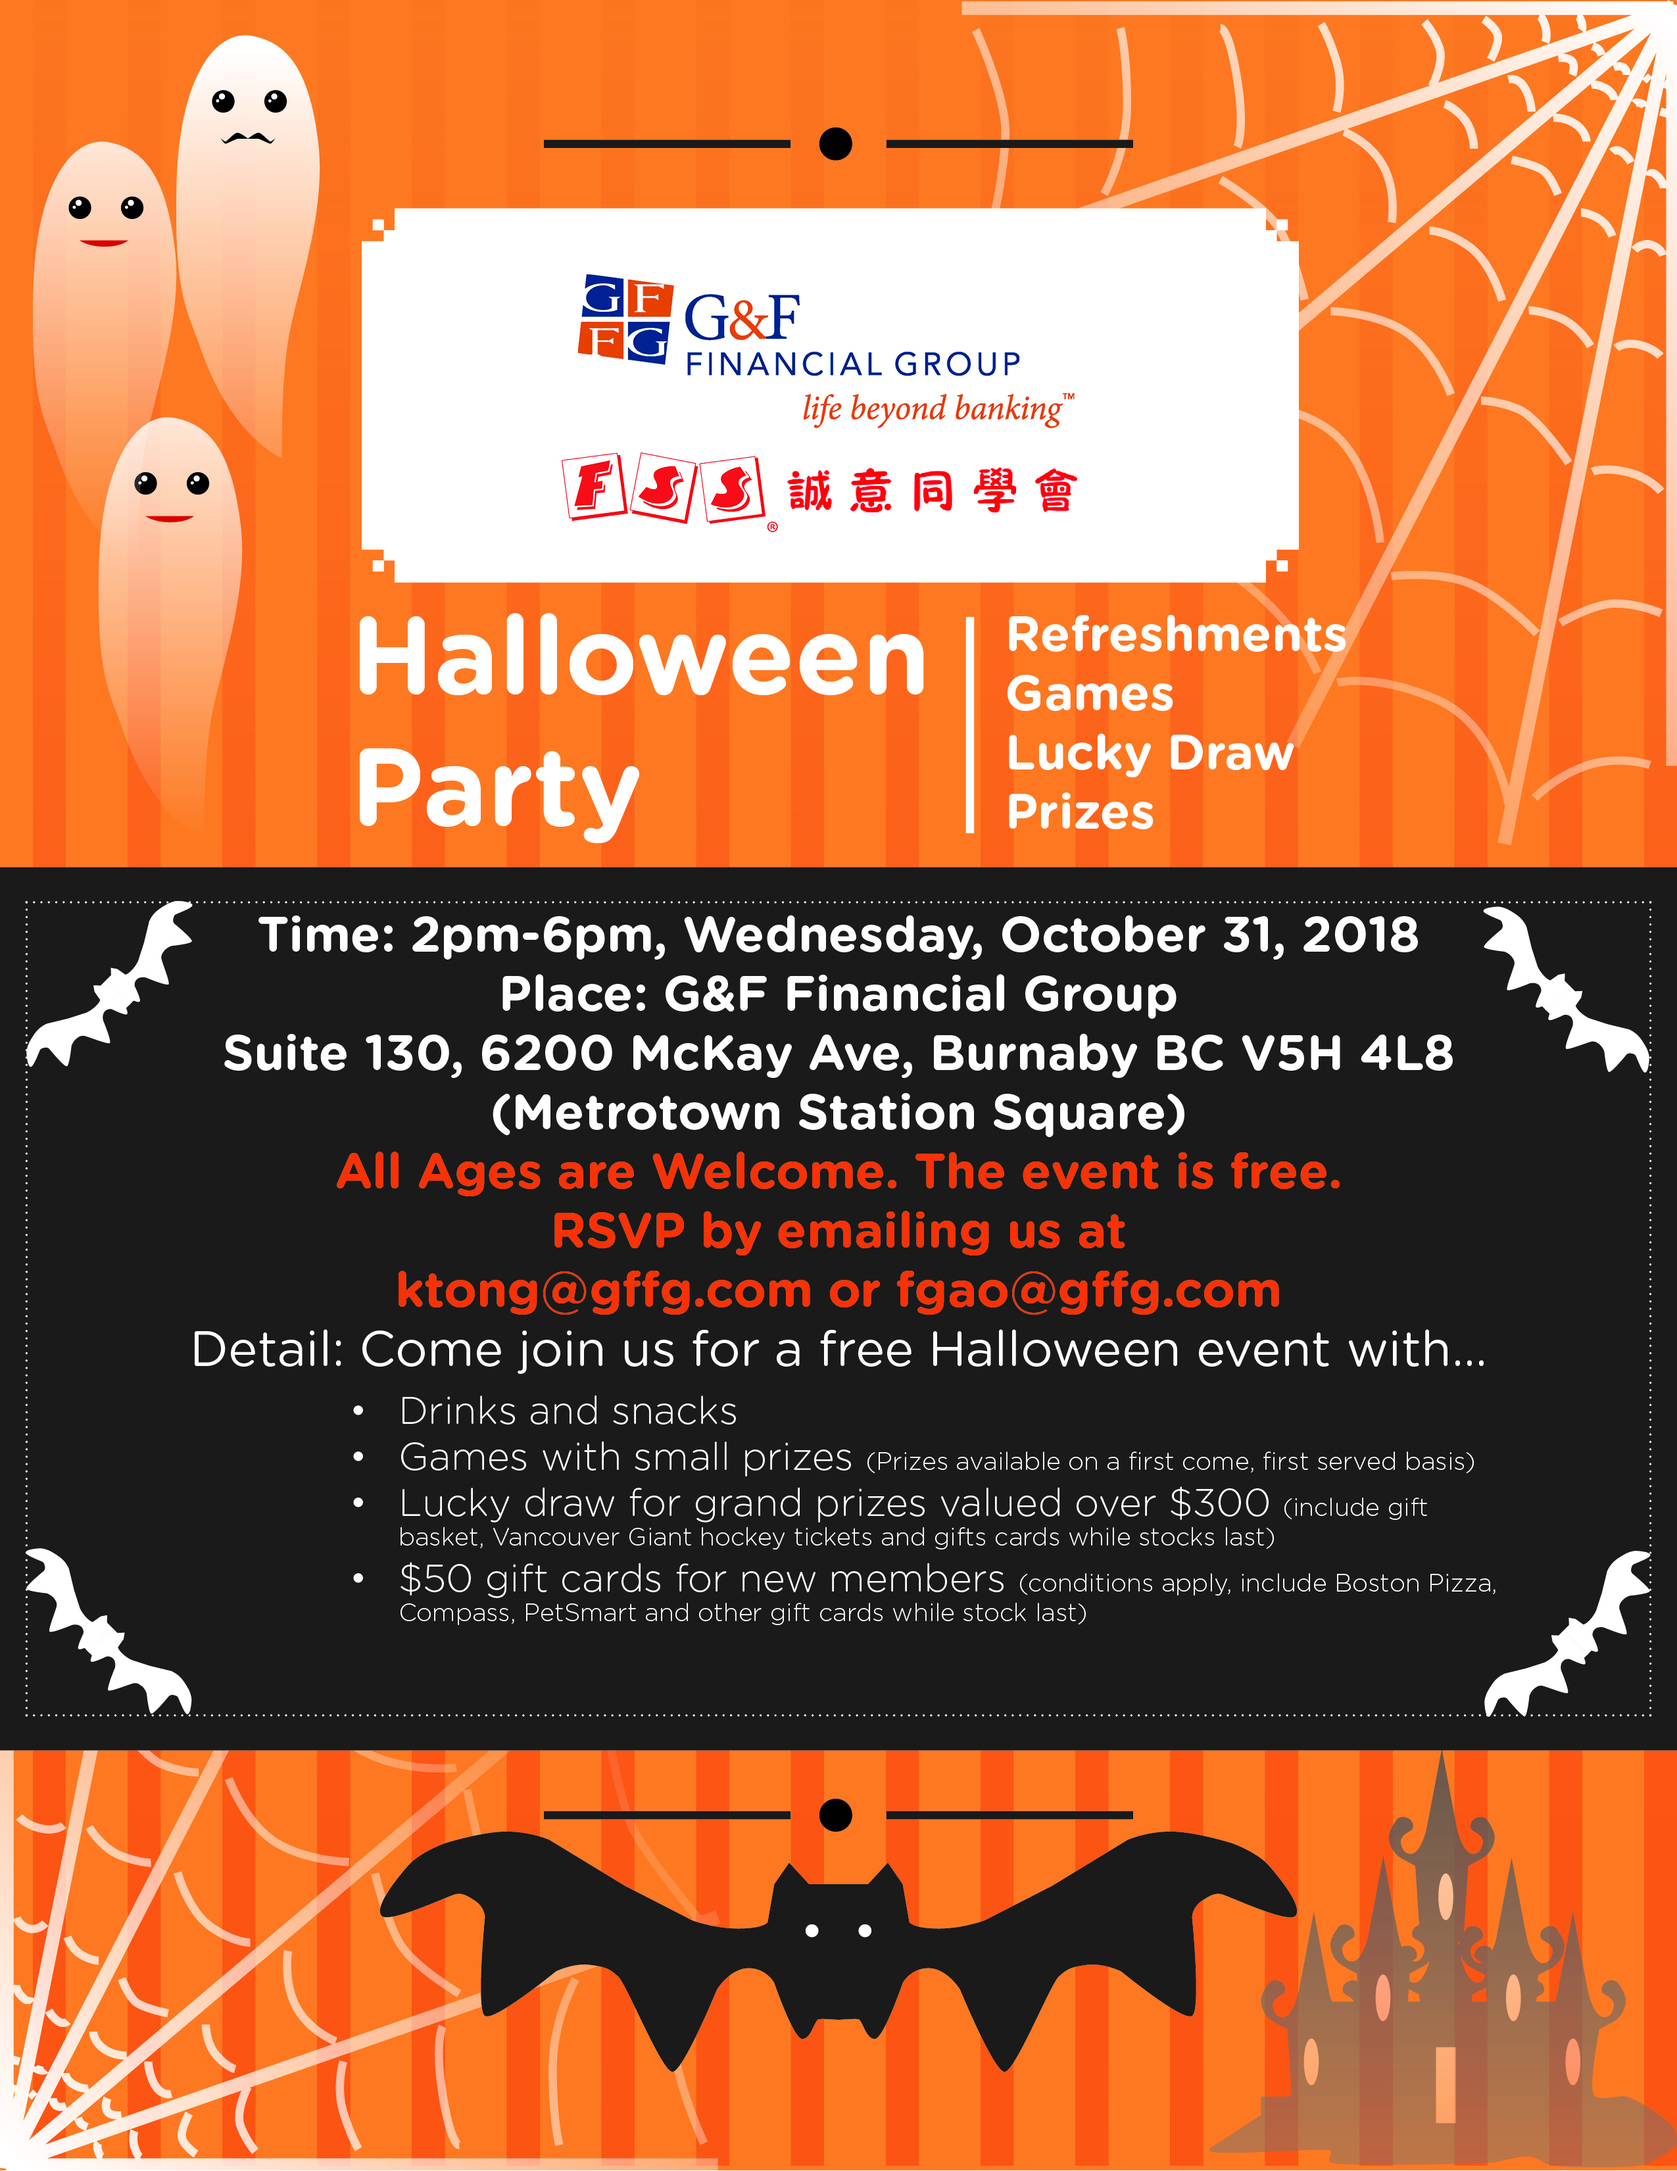
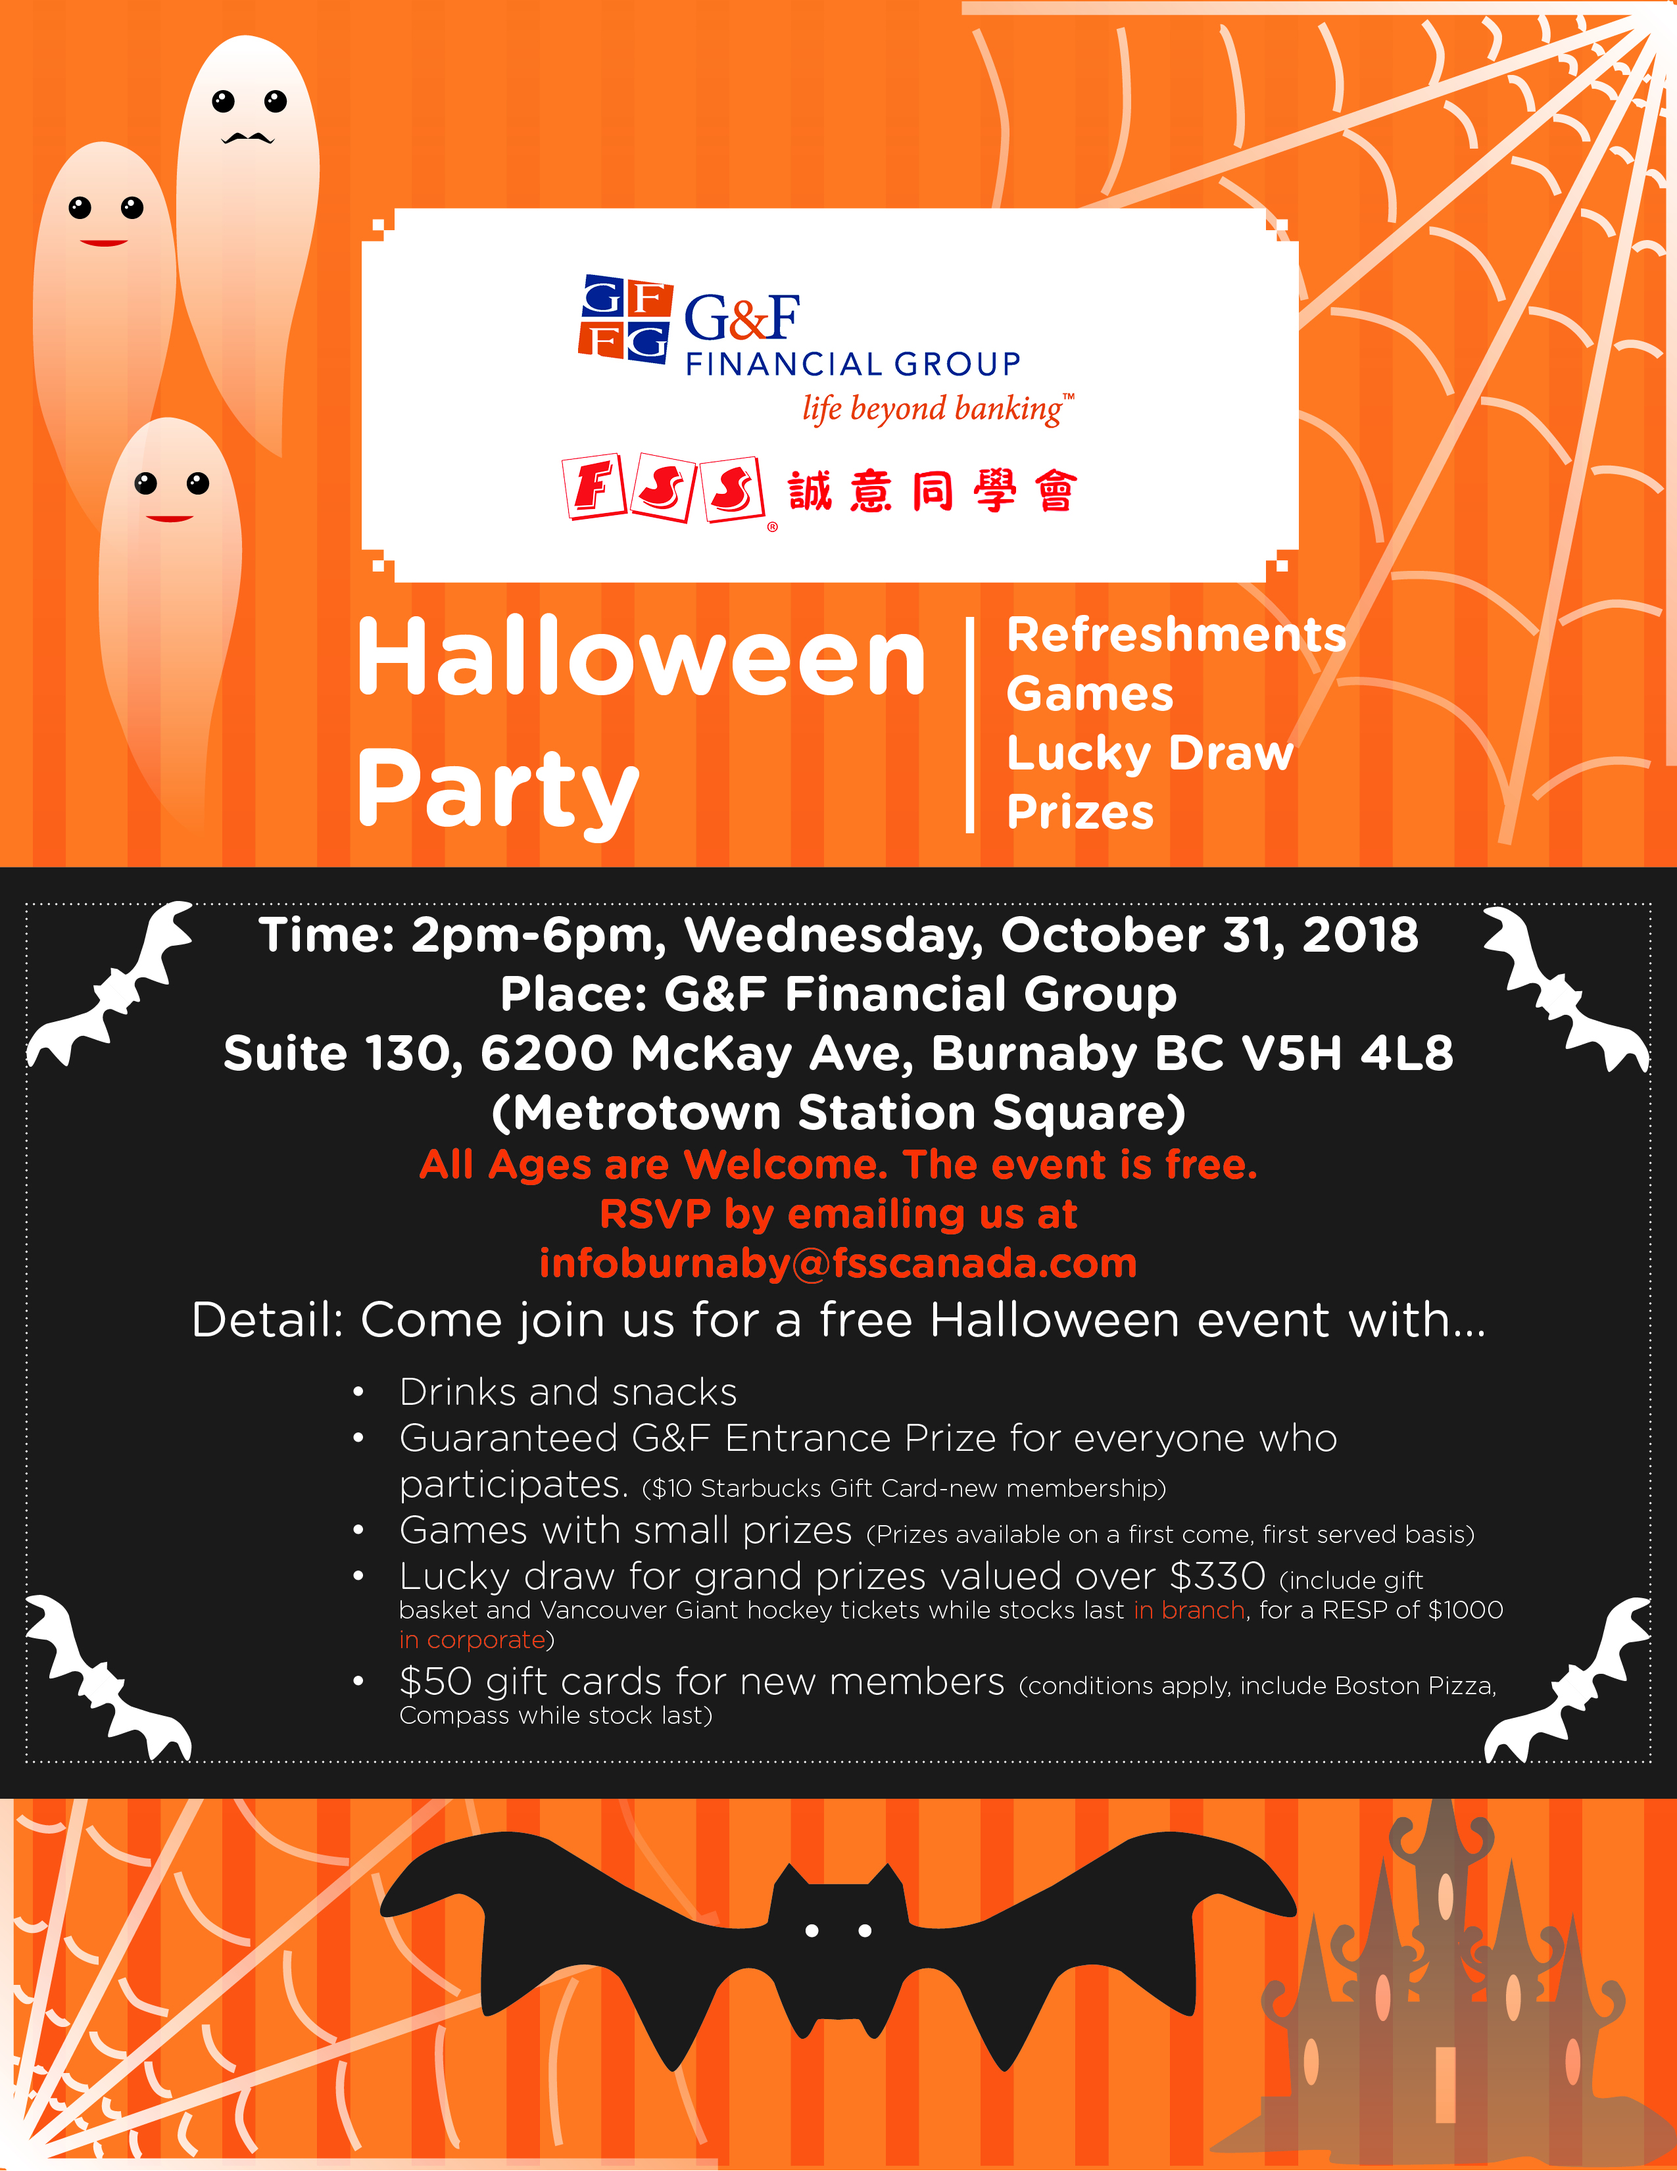
Uploaded new Content

Changed region(s): [[0.0, 0.5304, 1.0, 0.8425], [0.4957, 0.0624, 0.6816, 0.0936], [0.3408, 0.0624, 0.4647, 0.0936]]

diff --git a/index.html b/index.html
@@ -15,6 +15,7 @@
 		<script src="js/skel.min.js"></script>
 		<script src="js/skel-layers.min.js"></script>
 		<script src="js/init.js"></script>
+		<script src="js/CloseButton.js"></script>
 		<noscript>
 			<link rel="stylesheet" href="css/skel.css" />
 			<link rel="stylesheet" href="css/style.css" />
@@ -39,7 +40,7 @@
 						
 			
 			<li><a href="index.html" class="button special">Home</a></li>
-						<li><a href="benefit.html">Benefit</a></li>
+						<li><a href="benefit.html">Benefits</a></li>
 						<li><a href="scholarship.html" >Scholarship</a></li>
 						<li><a a href="event.html" >Event</a></li>
 						<li><a href="volunteer.html">Volunteer</a></li>
@@ -70,8 +71,13 @@
 					<a href="event.html"><img src="images/lighthouse1.pg" width="100%" height="100%" alt="" />
 							</a>
 					<p style="color:#fff";>International Student Lighthouse</p>
+					<ul>&nbsp;</ul>
+						
 					<ul class="actions">
-						<li><a href="benefit.html" class="button big special">Benefit</a></li>
+						<li><a href="benefit.html" class="button big alt">Benefits</a></li>
+						<li><a href="scholarship.html" class="button big alt">Scholarship</a></li>
+						<li><a href="event.html" class="button big alt">Event</a></li>
+						<li><a href="volunteer.html" class="button big alt">Volunteer</a></li>
 						<li><a href="https://vimeo.com/293648828" class="button big alt">VIDEO</a></li>
 					</ul>
 				</div>
@@ -91,38 +97,165 @@
 				<header class="major">
 					<h2>FSS Student Club</h2>
 					<p>FSS Student Club Is the Lighthouse of the International Student</p>
-				</header>
+					
+					<div class="container">
+					<p>FSS Inc. is the first study abroad agency in Vancouver. With nearly 40 years of experience in studying abroad, it has good cooperation with 300 Canadian university colleges, public high schools, and private institutions. It won the approval of the governor of BC, and the China-Canada Cultural Promotion Association. FSS Inc. set up its first China branch in Dalian in 2018 to provide the best study options and the widest selection of institutions for international student.
+FSS Inc. also has the Canadian Registered Immigration Adviser (ICCRC member) to provide the most professional and authoritative visa services and immigration consultation for students and their parents. Our company also has formed “student club”, which provides exclusive offers, organizes various campus tours, and holds exciting seminars. 
+For decades, FSS Inc. has assisted tens of thousands of international students to apply for their dream school in Canada. FSS Inc. assists international students from all over the world, including mainland China, Hong Kong, Taiwan, Macau, Japan, Korea, and India. FSS Inc. advisors can help students in fluent Cantonese, Mandarin, English and Japanese.
+</p>
+</div>
+</header>
+
+				<header>
 				<div class="container">
+				
 					<div class="row">
 						<div class="4u">
 							<section class="special box">
 								<a href="event.html"><img src="images/iconevent.png" width="80%" height="80%" alt="" />
 							</a>
 								<h3>Event</h3>
-								<p>FSS Student Club invites its members to join various events, such as G&F Halloween Party, Talent Show, Christmas Event, School Tour & Summer Camp.</p>
+								<p>FSS Student Club invites its members to join various events, 
+								such as G&F Halloween Party, Talent Show, Christmas Event, 
+								School Tour & Summer Camp. Hurry Up! Join exciting events. </p>
+							
 							</section>
 						</div>
 						<div class="4u">
 							<section class="special box">
 								<a href="benefit.html"><img src="images/iconbenefit.png" width="80%" height="80%" alt="" /></a>
 								<h3>Benefit</h3>
-								<p>FSS Student Club partner stores offer members various discounts. The stores includes bank, phone service carriers, hair salon, bubble tea shop, etc.  </p>
+								<p>FSS Student Club partner stores offer members Offer members discounts. 
+								Our partner stores include banks, bubble tea shops, 
+								hair salons, phone service carriers, and print shops etc.</p>
+							 
 							</section>
 						</div>
 						<div class="4u">
 							<section class="special box">
 								<a href="scholarship.html"><img src="images/iconscholarship.png" width="80%" height="80%" alt="" /></a>
 								<h3>Scholarship</h3>
-								<p>FSS Student Club offers its members the school scholarship information. It also encourages students with FSS scholarship by points or cash. </p>
+								<p>FSS Student Club provides information about selective schools' scholarships such as 
+								UWC and VPC. FSS Student Club also offers its own scholarships by points or cash! </p>
+							
 							</section>
 						</div>
 					</div>
 				</div>
 			</section>
 			
-		<!-- Two -->
-			<section id="two" class="wrapper style2">
+			
+			
+			<div class = "sidenav">
+					<a href="event.html"><img src="images/banner.png" width="100%" heigth="100%"></a>
+				<button class="CloseButton" onclick="CloseBox()">&#10006;</button>
+			</div>
+			</header>
+			
+			
+<header>
+<section id="two" class="wrapper style2">
+				
+				
 				<header class="major">
+					<h2>VISA Information</h2>
+					<p>For More Information, please e-mail us infoburnaby@fsscanada.com</p>
+				</header>
+				
+				
+<div class="container">
+					<div class="row">
+						<div class="3u">
+							<section class="special box">
+								<a href=""><img src="images/iconevent.pg" width="80%" height="80%" alt="" />
+							</a>
+								<h3>Study Permit Renewal</h3>
+
+<ul>Photo</ul>
+<ul>Passport</ul>
+<ul>Study permit</ul>
+<ul>Bank Statement</ul>
+<ul>Custodian Declaration Forms</ul>
+<ul>Acceptance/ Enrolment Letter</ul>
+<ul>Transcripts</ul>
+<ul>CIC Application Fee</ul>
+<ul>FSS Processing Fee</ul>
+<ul>&nbsp;</ul>
+							</section>
+						</div>
+						
+										<div class="3u">
+							<section class="special box">
+								<a href=""><img src="images/iconevent.pg" width="80%" height="80%" alt="" />
+							</a>
+								<h3>Visitor Visa Renewal</h3>
+<ul>Photo</ul>
+<ul>Passport</ul>
+<ul>Study permit</ul>
+<ul>Bank Statement</ul>
+<ul>Custodian Declaration Forms</ul>
+<ul>Acceptance/ Enrolment Letter</ul>
+<ul>Transcripts</ul>
+<ul>CIC Application Fee $100</ul>
+<ul>Postage fee $40</ul>
+<ul>FSS Processing Fee</ul>
+							</section>
+						</div>
+						
+						
+						<div class="3u">
+							<section class="special box">
+								<a href=""><img src="images/iconevent.pg" width="80%" height="80%" alt="" />
+							</a>
+								<h3>Post-Graduation Work Permit</h3>
+<ul>&nbsp;</ul>
+<ul>&nbsp;</ul>
+<ul>Photo</ul>
+<ul>Passport</ul>
+<ul>Study permit</ul>
+<ul>Graduation Letter/Certification</ul>
+<ul>CIC Application Fee $255</ul>
+<ul>FSS Processing Fee</ul>
+<ul>&nbsp;</ul>
+<ul>&nbsp;</ul>
+							</section>
+						</div>
+						
+							<div class="3u">
+							<section class="special box">
+								<a href=""><img src="images/iconevent.pg" width="80%" height="80%" alt="" />
+							</a>
+								<h3>U.S. Visa</h3>
+<ul>&nbsp;</ul>
+<ul>Photo</ul>
+<ul>Passport</ul> 
+<ul>Study permit</ul> 
+<ul>Bank Statement</ul> 
+<ul>Acceptance/ Enrolment Letter</ul> 
+<ul>Transcripts</ul> 
+<ul>Application Fee US$160</ul>
+<ul>Postage fee $40</ul>
+<ul>FSS Processing Fee</ul>
+<ul>&nbsp;</ul>
+							</section>
+						</div>
+		
+						
+						
+						
+						
+						
+						
+						
+						
+						</div>
+					</section>
+				</header>						
+			
+		<!-- Two -->
+			<section id="one" class="wrapper style1">
+				<header class="major">
+				<header>
 					<h2>Latest College News</h2>
 					<p>Fall 2018 - Spring 2019</p>
 				</header>
@@ -498,7 +631,7 @@
 									<h3>Menu</h3>
 									<ul class="alt">
 										<li><a href="index.html">Home</a></li>
-										<li><a href="benefit.html">Benefit</a></li>
+										<li><a href="benefit.html">Benefits</a></li>
 										<li><a href="scholarship.html">Scholarship</a></li>
 										<li><a href="event.html">Event</a></li>
 										<li><a href="volunteer.html">Volunteer</a></li>

diff --git a/event.html b/event.html
@@ -59,29 +59,30 @@
 								<p>2018 G&F + FSS Student Club Halloween Party Event is for FSS Student Club members. 
 								There are many prizes. First come, first serve. 
 								
-								If you are interested in 2018 G&F + FSS Student Club Halloween Party Event, please RSVP via email: ktong@gffg.com or fgao@gffg.com
+								If you are interested in 2018 G&F + FSS Student Club Halloween Party Event, please RSVP via email: infoburnaby@fsscanada.com
 								</p>
-								<a href="#"><img src="images/halloween.jpg" width="50%" height="50%" alt="" /></a>
+								<a href="#"><img src="images/halloween.jpg" width="80%" height="80%" alt="" /></a>
 							
 						
-							
+							<ul></ul>
 							<section class="special">
 									
 								<h3>2018 FSS Talent Show</h3>
 								<p>2018 FSS Talent Show is for FSS Student Club members who are interested in showing their talents. 
 								The prize for the winner is very generous, minimum of $500 values. 
 								If you are interested in 2018 FSS Talent Show, please contact Vivian via email: studentclub@fsscanada.com</p>
-								<a href="#"><img src="images/talentshow.jpg" width="50%" height="50%" alt="" /></a>
+								<a href="#"><img src="images/talentshow.jpg" width="80%" height="80%" alt="" /></a>
 							</section>
+							<ul></ul>
 							
 							<section class="special">
 								
 								
 								<h3>2018-2019 Event Timeline</h3>
 								<p>FSS Student Club is hosting many events during school year. If you are interested in any events, please contact Vivian via email: studentclub@fsscanada.com </p>
-								<a href="#"><img src="images/event.jpg" width="50%" height="50%" alt="" /></a>
+								<a href="#"><img src="images/event.jpg" width="80%" height="80%" alt="" /></a>
 							</section>
-							
+							<ul></ul>
 
 							
 							

diff --git a/css/style.css b/css/style.css
@@ -7,6 +7,45 @@
 	templated.co @templatedco
 	Released for free under the Creative Commons Attribution 3.0 license (templated.co/license)
 */
+.sidenav{
+
+
+    width: 100px;
+    height: 490px;
+    position: fixed;
+  
+    z-index: 2;
+    background-color: #ffffff;
+    opacity: .9;
+    top:10%;
+	left: 92%
+}
+
+.navleft{
+
+	width: 150px;
+    height: 400px;
+    position: fixed;
+    z-index: 2;
+    background: #eee;
+    top:30%;
+	left: 0%
+
+}
+
+button.CloseButton 
+{
+	position: absolute;
+	bottom:0%;
+	left:0%;
+	color: #808080;
+	font-size:10px;
+	padding: 5px 5px;
+	background-color:Transparent;
+	outline:none;
+	border:none;
+
+}
 
 /* Basic */
 
@@ -982,7 +1021,7 @@ f
 
 	#banner {
 		background-color: #000;
-		background-image: url("../images/lighthouse1.jpg");
+		background-image: url("../images/lighthouse5.jpg");
 		background-size:cover;
 		background-position: left top;
 		background-repeat: no-repeat;

diff --git a/js/CloseButton.js b/js/CloseButton.js
@@ -1,0 +1,11 @@
+function CloseBox1(){
+
+	var x = document.getElementsByClassName("navleft");
+	console.log(x);
+	x[0].style.display="none";
+
+}
+function CloseBox(){
+	var x = document.getElementsByClassName("sidenav");
+	x[0].style.display="none";
+}
